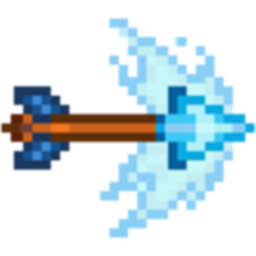
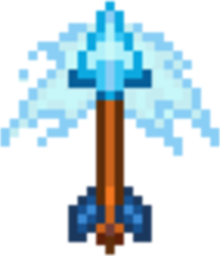
Feat: Modify logic and implement graphic of the Rapid Fire skill Modify logic and implement graphic of the Rapid Fire skill. TP-147

diff --git a/src/main/java/entity/character/GameCharacter.java b/src/main/java/entity/character/GameCharacter.java
@@ -44,6 +44,9 @@ public abstract class GameCharacter extends Entity {
     private int upKey;
     private int downKey;
     private int defaultAttackKey;
+    private int firstSkillKey;
+    private int secondSkillKey;
+    private int ultimateSkillKey;
     
     private static final float DIAGONAL_CORRECTION_FACTOR = (float) (1.0 / Math.sqrt(2));
     protected boolean isAttacking;
@@ -107,6 +110,9 @@ public abstract class GameCharacter extends Entity {
         this.upKey = KeyEvent.VK_W;
         this.downKey = KeyEvent.VK_S;
         this.defaultAttackKey = KeyEvent.VK_SPACE;
+        this.firstSkillKey = KeyEvent.VK_1;
+        this.secondSkillKey = KeyEvent.VK_2;
+        this.ultimateSkillKey = KeyEvent.VK_3;
         
         initializeKeyboardPressing();
         
@@ -147,7 +153,7 @@ public abstract class GameCharacter extends Entity {
      * Applies stat upgrades from the user's store purchases. Upgrades are applied as percentage or
      * additive bonuses to the base stats.
      */
-    protected void applyUserUpgrades() { // Test에서 오버라이딩 및 호출이 가능하도록 protected로 변경.
+    protected void applyUserUpgrades() {
         UserStats stats = Core.getUserStats();
         if (stats == null) {
             return;
@@ -214,6 +220,7 @@ public abstract class GameCharacter extends Entity {
     public void addBuff(Buff buff) {
         buff.applyToStats(currentStats);
         this.activeBuffs.add(buff);
+        recalculateStats();
     }
     
     public void decreaseMana(int manaCost) {
@@ -224,15 +231,18 @@ public abstract class GameCharacter extends Entity {
      * Reapply all buffs that are currently active, starting with the base stat.
      */
     public void recalculateStats() {
-        float tempAttackSpeed = baseStats.attackSpeed;
-        int tempPhysDamage = baseStats.physicalDamage;
+        this.currentStats.attackSpeed = this.baseStats.attackSpeed;
+        this.currentStats.physicalDamage = this.baseStats.physicalDamage;
+        this.currentStats.movementSpeed = this.baseStats.movementSpeed;
         
         for (Buff buff : activeBuffs) {
             buff.applyToStats(this.currentStats);
         }
         
-        this.currentStats.attackSpeed = tempAttackSpeed;
-        this.currentStats.physicalDamage = tempPhysDamage;
+        int newCooldownTime = (int) (BASE_SHOOTING_COOLDOWN
+            - this.currentStats.attackSpeed * SHOOTING_COOLDOWN_FACTOR);
+        this.shootingCooldown = Core.getCooldown(newCooldownTime);
+        this.projectileSpeed = (int) (this.currentStats.attackSpeed * ATTACK_SPEED_FACTOR);
     }
     
     /**
@@ -246,12 +256,20 @@ public abstract class GameCharacter extends Entity {
         this.upKey = keys[2];
         this.downKey = keys[3];
         this.defaultAttackKey = keys[4];
+        this.firstSkillKey = keys[6];
+        this.secondSkillKey = keys[7];
+        this.ultimateSkillKey = keys[8];
     }
     
-    public boolean handleKeyboard(InputManager inputManager, Screen screen, Set<Weapon> weapons,
+    public void handleKeyboard(InputManager inputManager, Screen screen, Set<Weapon> weapons,
         float deltaTime) {
         initializeKeyboardPressing();
         
+        handleMovement(inputManager, screen, deltaTime);
+        handleAttack(inputManager, weapons);
+    }
+    
+    public void handleMovement(InputManager inputManager, Screen screen, float deltaTime) {
         float dx = 0;
         float dy = 0;
         
@@ -306,21 +324,38 @@ public abstract class GameCharacter extends Entity {
                 this.positionY += movementY;
             }
         }
-        
+    }
+    
+    public void handleAttack(InputManager inputManager, Set<Weapon> weapons) {
         if (inputManager.isKeyDown(this.defaultAttackKey)) {
+            launchBasicAttack(weapons);
             this.isAttacking = true;
-            return launchBasicAttack(weapons);
+        } else if (inputManager.isKeyDown(this.firstSkillKey)) {
+            if (!skills.isEmpty()) {
+                skills.get(0).activate(this);
+            }
+            this.isAttacking = true;
+        } else if (inputManager.isKeyDown(this.secondSkillKey)) {
+            if (skills.size() > 1) {
+                skills.get(1).activate(this);
+            }
+            this.isAttacking = true;
+        } else if (inputManager.isKeyDown(this.ultimateSkillKey)) {
+            if (skills.size() > 2) {
+                skills.get(2).activate(this);
+            }
+            this.isAttacking = true;
+        } else {
+            this.isAttacking = false;
         }
-        return false;
     }
     
     /**
      * Launch a basic attack.
      *
      * @param weapons The set of weapons to add the new weapon to.
-     * @return True if a weapon was fired, false if on cooldown.
      */
-    public boolean launchBasicAttack(Set<Weapon> weapons) {
+    public void launchBasicAttack(Set<Weapon> weapons) {
         if (this.shootingCooldown.checkFinished()) {
             this.shootingCooldown.reset();
             
@@ -352,9 +387,7 @@ public abstract class GameCharacter extends Entity {
             weapon.setPlayerId(this.playerId);
             weapon.setRange(this.currentStats.attackRange);
             weapons.add(weapon);
-            return true;
         }
-        return false;
     }
     
     /**

diff --git a/src/main/java/screen/GameScreen.java b/src/main/java/screen/GameScreen.java
@@ -223,9 +223,6 @@ public class GameScreen extends Screen {
                 startX + gapBetweenCharacters, startY, Entity.Team.PLAYER2, 2);
             // P2 Controls
             this.characters[1].setControlKeys(Core.getInputManager().getPlayer2Keys());
-            if (state.getLevel() > 1 && state.getPlayerHealth(1) > 0) {
-                this.characters[1].setCurrentHealthPoints(state.getPlayerHealth(1));
-            }
         } else {
             this.characters[0] = CharacterSpawner.createCharacter(this.characterTypeP1,
                 startX, startY, Entity.Team.PLAYER1, 1);
@@ -234,8 +231,15 @@ public class GameScreen extends Screen {
         // P1 Controls
         this.characters[0].setControlKeys(Core.getInputManager().getPlayer1Keys());
         
-        if (state.getLevel() > 1 && state.getPlayerHealth(0) > 0) {
-            this.characters[0].setCurrentHealthPoints(state.getPlayerHealth(0));
+        if (state.getLevel() > 1) {
+            // Player 1 체력 불러오기
+            if (this.characters[0] != null) {
+                this.characters[0].setCurrentHealthPoints(state.getPlayerHealth(0));
+            }
+            // Player 2 체력 불러오기
+            if (this.characters[1] != null) {
+                this.characters[1].setCurrentHealthPoints(state.getPlayerHealth(1));
+            }
         }
         
         this.screenFinishedCooldown = Core.getCooldown(SCREEN_CHANGE_INTERVAL);
@@ -340,9 +344,9 @@ public class GameScreen extends Screen {
                         state.useFirstActiveItem(1);
                     }
                     
+                    character.handleKeyboard(inputManager, this, this.weapons, deltaTime);
                     // Handle Input (Movement & Shooting)
-                    boolean shotFired = character.handleKeyboard(inputManager, this, this.weapons,
-                        deltaTime);
+                    boolean shotFired = character.isAttacking();
                     
                     if (shotFired) {
                         SoundManager.playOnce("shoot");

diff --git a/src/main/java/engine/InputManager.java b/src/main/java/engine/InputManager.java
@@ -290,10 +290,12 @@ public final class InputManager implements KeyListener, MouseListener,
             
             try (BufferedWriter writer = new BufferedWriter(new FileWriter(file))) {
                 writer.write(player1Keys[0] + "," + player1Keys[1] + "," + player1Keys[2] + ","
-                    + player1Keys[3]);
+                    + player1Keys[3] + "," + player1Keys[4] + "," + player1Keys[5] + ","
+                    + player1Keys[6] + "," + player1Keys[7]);
                 writer.newLine();
                 writer.write(player2Keys[0] + "," + player2Keys[1] + "," + player2Keys[2] + ","
-                    + player2Keys[3]);
+                    + player2Keys[3] + "," + player2Keys[4] + "," + player2Keys[5] + ","
+                    + player2Keys[6] + "," + player2Keys[7]);
             }
         } catch (IOException e) {
             e.printStackTrace();
@@ -337,11 +339,12 @@ public final class InputManager implements KeyListener, MouseListener,
         // 6: first skill, 7: second skill, 8: ultimate skill
         player1Keys = new int[]{
             KeyEvent.VK_A, KeyEvent.VK_D, KeyEvent.VK_W, KeyEvent.VK_S,
-            KeyEvent.VK_SPACE, KeyEvent.VK_Q
+            KeyEvent.VK_SPACE, KeyEvent.VK_Q, KeyEvent.VK_1, KeyEvent.VK_2, KeyEvent.VK_3,
         };
         player2Keys = new int[]{
             KeyEvent.VK_LEFT, KeyEvent.VK_RIGHT, KeyEvent.VK_UP, KeyEvent.VK_DOWN,
-            KeyEvent.VK_ENTER, KeyEvent.VK_SLASH
+            KeyEvent.VK_ENTER, KeyEvent.VK_SLASH, KeyEvent.VK_P, KeyEvent.VK_OPEN_BRACKET,
+            KeyEvent.VK_CLOSE_BRACKET
         };
         
         instance.loadKeyConfig();

diff --git a/src/main/java/engine/AssetManager.java b/src/main/java/engine/AssetManager.java
@@ -81,9 +81,20 @@ public final class AssetManager {
             characterWidth, characterHeight, 4),
         CharacterArcherGravestone(SourceCategory.CHARACTER, "archer/archer_gravestone.png",
             characterWidth, characterHeight),
+        // Archer Weapon
         CharacterArcherDefaultProjectile(SourceCategory.WEAPON,
             "archer/default_attack_archer.png",
             14, 32),
+        CharacterArcherFirstSkill(SourceCategory.WEAPON,
+            "archer/effect_skill1_archer.png",
+            14, 32),
+        CharacterArcherSecondSkill(SourceCategory.WEAPON,
+            "archer/effect_skill2_archer.png",
+            14, 32),
+        CharacterArcherUltimateSkill(SourceCategory.WEAPON,
+            "archer/effect_ultimate_archer.png",
+            14, 32),
+        
         /**
          * Wizard Character.
          */

diff --git a/src/test/java/entity/character/GameCharacterAttackTest.java b/src/test/java/entity/character/GameCharacterAttackTest.java
@@ -102,7 +102,8 @@ class GameCharacterAttackTest {
         character.setFacingState(false, false, true, false);
         
         // When
-        boolean result = character.launchBasicAttack(weapons);
+        character.launchBasicAttack(weapons);
+        boolean result = character.isAttacking;
         
         // Then
         assertTrue(result, "쿨타임이 끝났으면 공격이 성공해야 합니다.");
@@ -119,7 +120,8 @@ class GameCharacterAttackTest {
         when(shootingCooldown.checkFinished()).thenReturn(false);
         
         // When
-        boolean result = character.launchBasicAttack(weapons);
+        character.launchBasicAttack(weapons);
+        boolean result = character.isAttacking;
         
         // Then
         assertFalse(result, "쿨타임 중일 때는 공격이 실패해야 합니다.");

diff --git a/src/test/java/entity/character/ArcherCharacterAttackTest.java b/src/test/java/entity/character/ArcherCharacterAttackTest.java
@@ -66,7 +66,8 @@ class ArcherCharacterAttackTest {
         when(mockCooldown.checkFinished()).thenReturn(true);
         
         // When: 공격 실행
-        boolean isFired = archer.launchBasicAttack(weapons);
+        archer.launchBasicAttack(weapons);
+        boolean isFired = archer.isAttacking;
         
         // Then: 발사된 투사체의 속성이 아처 전용 설정과 일치하는지 검증
         assertTrue(isFired, "공격이 발사되어야 합니다.");

diff --git a/src/main/java/entity/skill/RapidFireSkill.java b/src/main/java/entity/skill/RapidFireSkill.java
@@ -19,7 +19,7 @@ public class RapidFireSkill extends Skill {
     
     @Override
     public void performSkill(GameCharacter attacker) {
-        RapidFireSkillBuff buff = new RapidFireSkillBuff((int) (DURATION_SECOND * 1000));
+        RapidFireSkillBuff buff = new RapidFireSkillBuff((int) (DURATION_SECOND));
         attacker.addBuff(buff);
     }
 }
